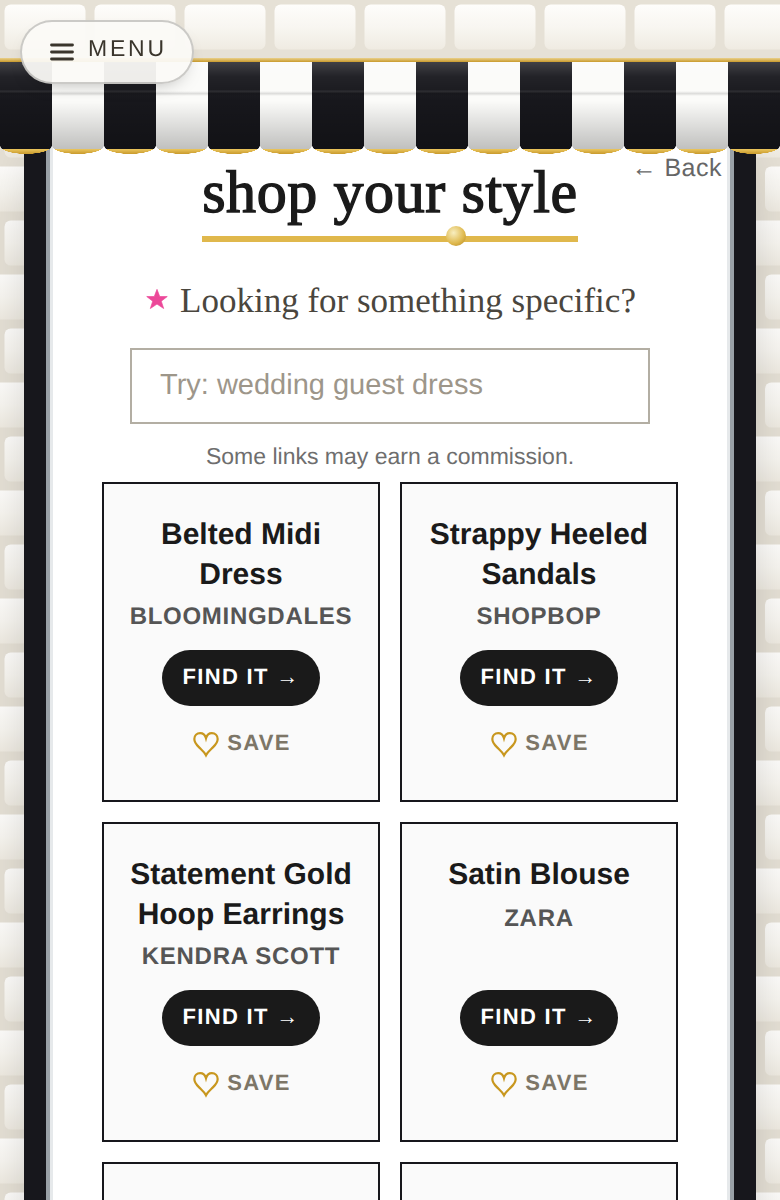
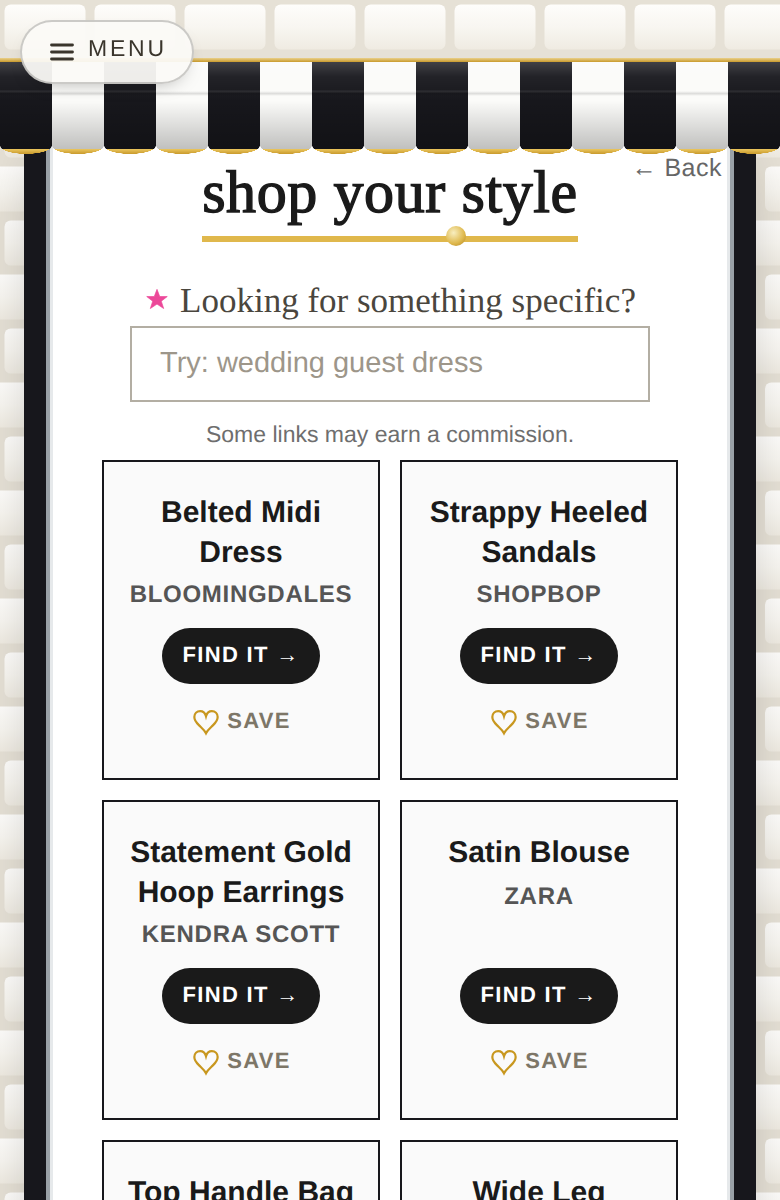
The box sits right under the line now
Her call: once she taps and the box appears, it should sit tight under "Looking
for something specific?" rather than floating below it.

Measured: 15px from the text's ink to the top of the box (6px padding, 6px
margin, and the descender space). Now 4px.

⚠ The bottom PADDING is taken out in the OPEN state only, and that is the whole
reason it is safe: in the closed state that padding is the 43px tap target for
the 18 to 80 audience, but once the box is open the line is no longer tappable,
so the padding is buying nothing. Verified both ways: the gap is 4px open, and
the closed tap target is still 43px at 430/390/375/360.

shopask 87 green.

Claude-Session: https://claude.ai/code/session_01TUGXHRrcTKwGocoP1NwBPi

diff --git a/index.html b/index.html
@@ -1116,7 +1116,11 @@ html.edit-velvet,html.edit-velvet body{background:#0E7F8C}
    action would be lying. */
 #s-shopstyle .sa-chev{width:15px;height:15px;vertical-align:-2px;margin-left:5px;display:inline-block}
 #s-shopstyle #ssAsk.open .sa-chev{display:none}
-#s-shopstyle #ssAsk.open .sa-vox{cursor:default;padding-bottom:6px;margin-bottom:6px}
+/* Her call 2026-08-22: once it opens, the box should sit RIGHT under the line it
+   belongs to. Safe to take the bottom padding out here and nowhere else,
+   because in the open state the line is no longer tappable, so the 43px tap
+   target it buys in the CLOSED state is not being spent. */
+#s-shopstyle #ssAsk.open .sa-vox{cursor:default;padding-bottom:0;margin-bottom:1px}
 #s-shopstyle #ssAsk:not(.open) #ssAskIn{display:none}
 #s-shopstyle .sa-star{width:13px;height:13px;vertical-align:-1px;margin-right:5px;display:inline-block}
 /* Her call: the box is BLACK and the chips are silver, which gives the control a
